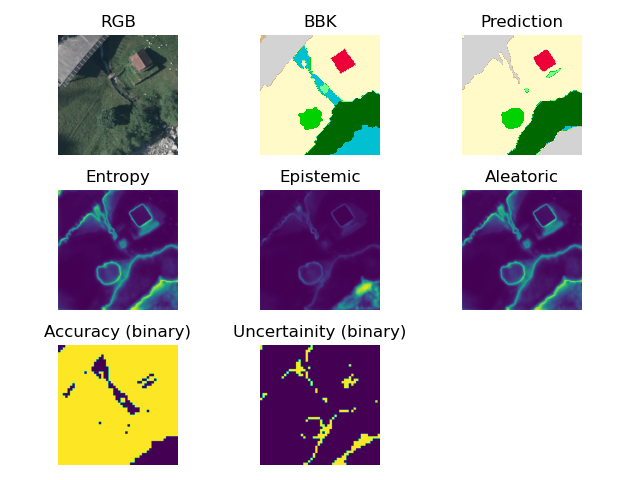
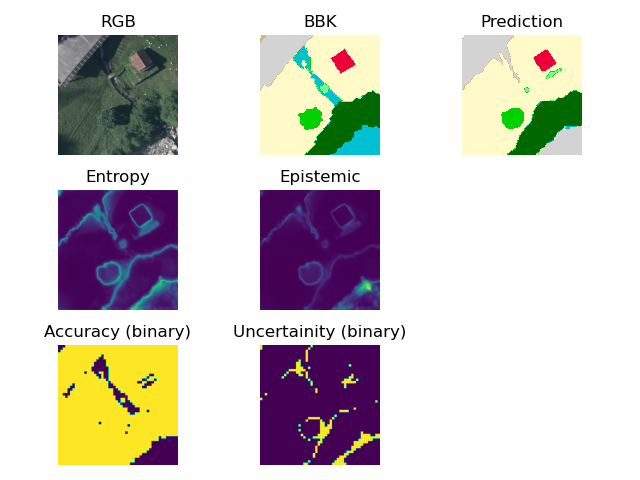
resacled maps

diff --git a/example_data_bayesian.py b/example_data_bayesian.py
@@ -56,7 +56,7 @@ plt.savefig(f'example_data/bbk_legend.png')
 # unfolding and folding
 w_size = 4 #patch size
 accuracy_tresh = 0.5
-t = 0.4
+t = 0.4 # default 0.4
 unfold = torch.nn.Unfold(kernel_size=(w_size, w_size),stride = w_size)
 fold = torch.nn.Fold(output_size=(200,200), kernel_size=(w_size, w_size), stride=w_size)
 
@@ -136,17 +136,15 @@ for i in dl:
 			plt.axis('off')
 			plt.title('Prediction')
 			plt.subplot(334)
-			plt.imshow(entropy)
+			# plt.imshow(entropy)
+			plt.imshow(entropy, vmin=batch_pred_entropy.min().cpu().numpy(), vmax = batch_pred_entropy.max().cpu().numpy())
 			plt.axis('off')
 			plt.title('Entropy')
 			plt.subplot(335)
-			plt.imshow(mutual)
+			# plt.imshow(mutual)
+			plt.imshow(mutual, vmin=batch_mutual_info.min().cpu().numpy(), vmax = batch_mutual_info.max().cpu().numpy())
 			plt.axis('off')
 			plt.title('Epistemic') # equal to mutual information
-			plt.subplot(336)
-			plt.imshow(aleatoric)
-			plt.axis('off')
-			plt.title('Aleatoric')
 			plt.subplot(337)
 			plt.imshow(bin_acc_map)
 			plt.axis('off')
